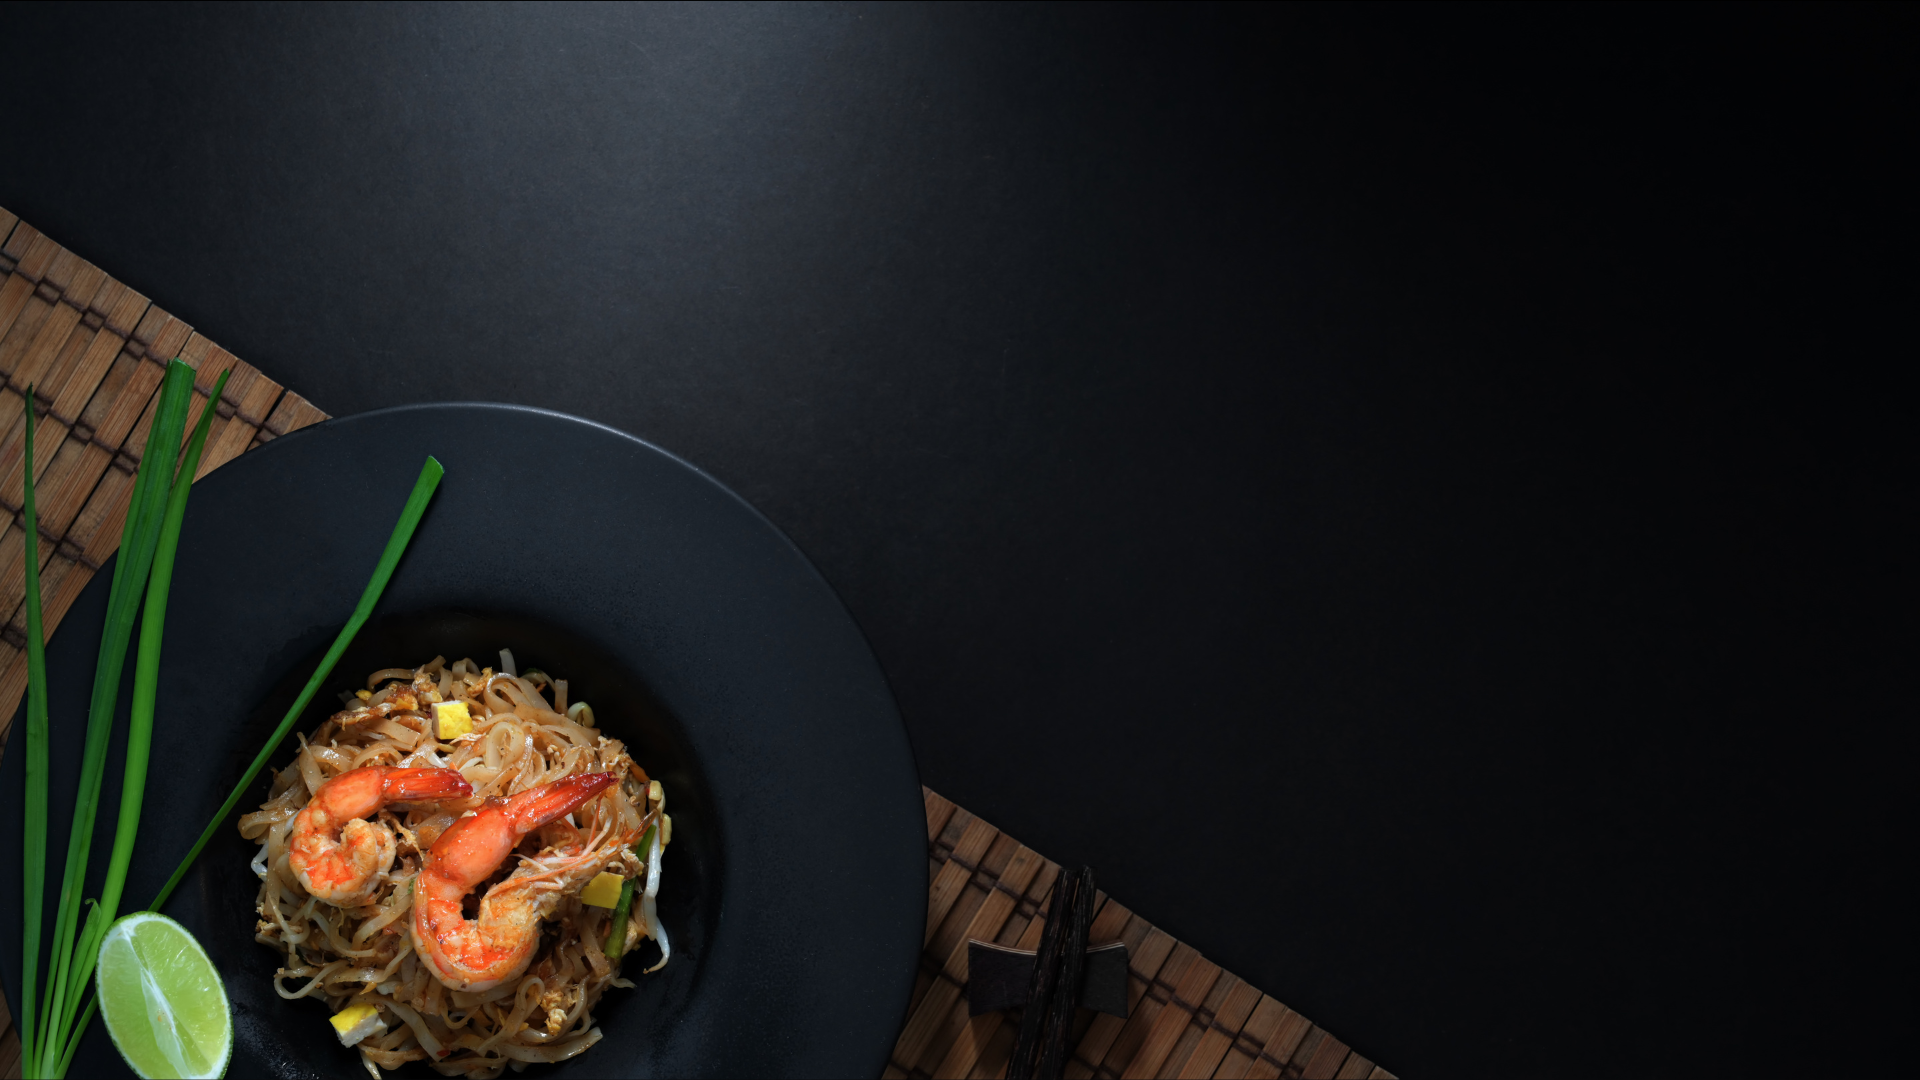
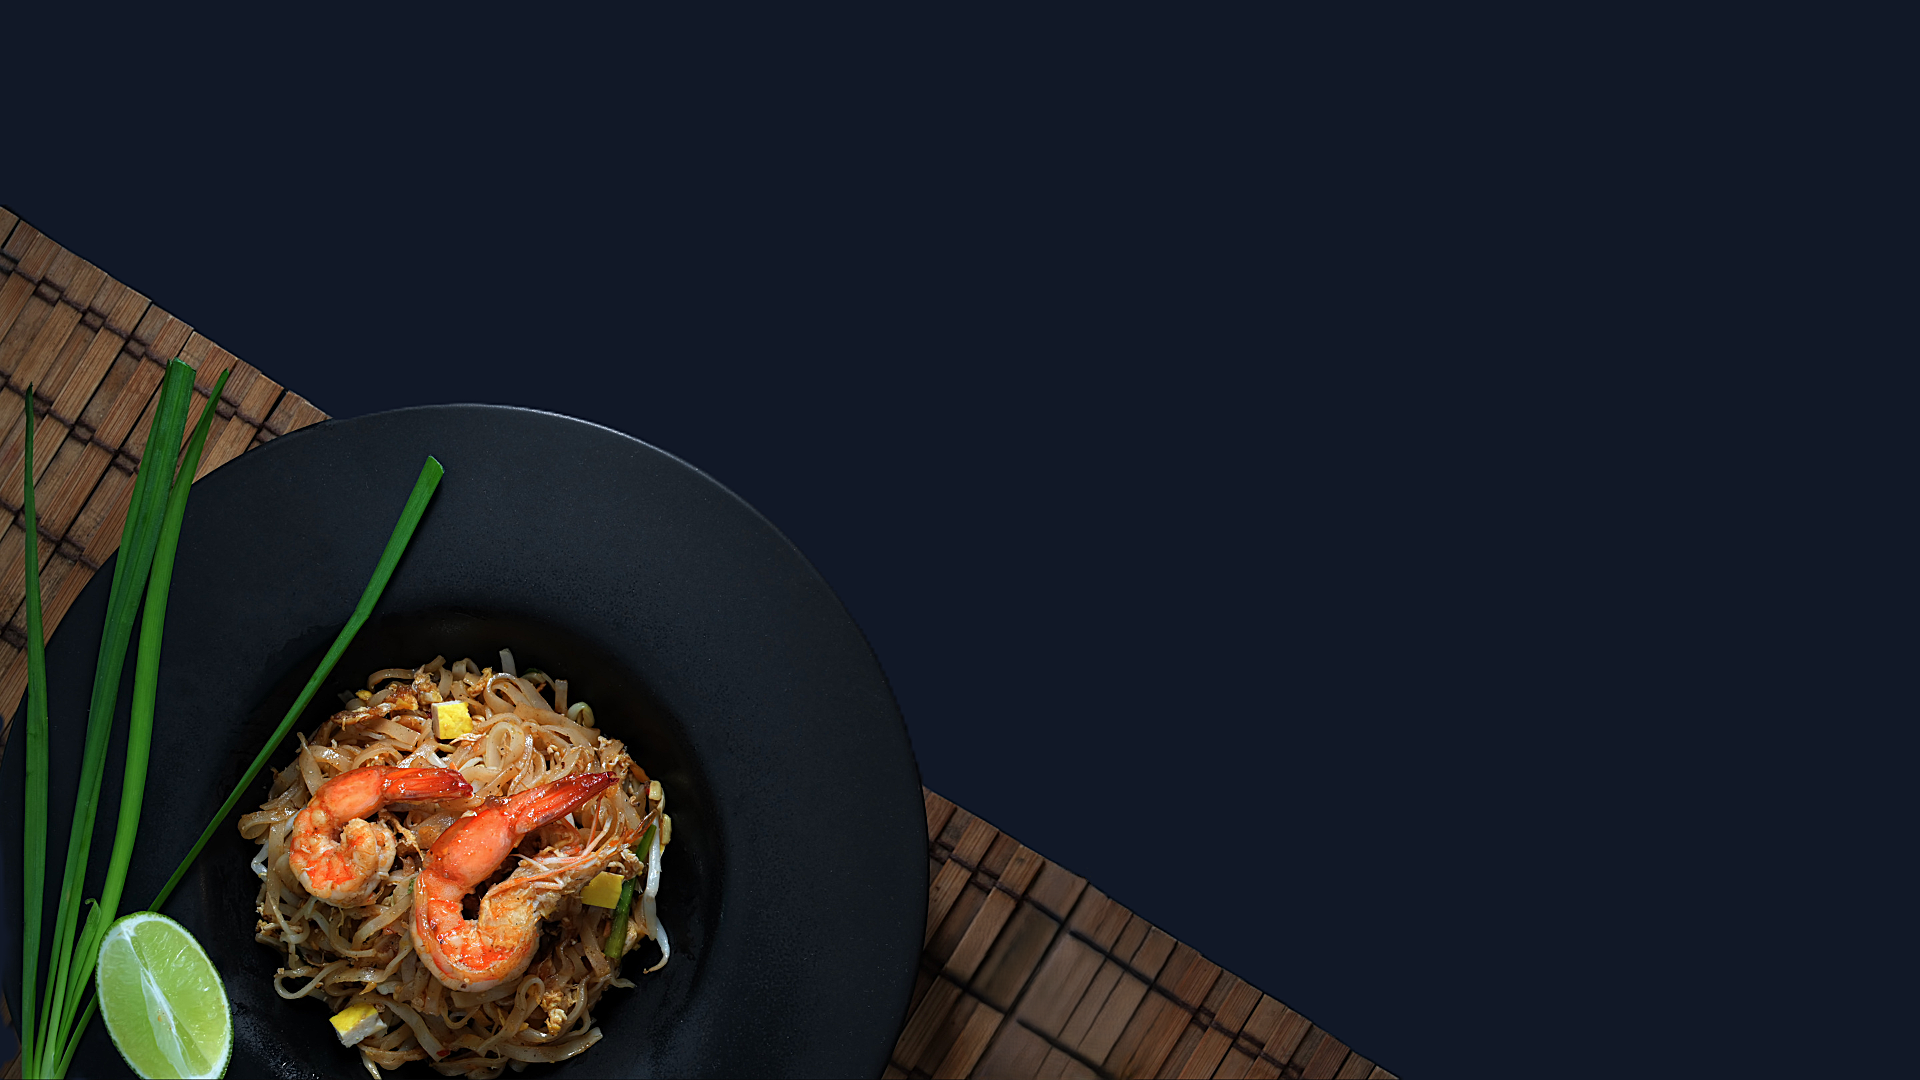
bg changed & form updated: 5-10-2024

diff --git a/src/components/RecommendationsForm.tsx b/src/components/RecommendationsForm.tsx
@@ -24,7 +24,7 @@ interface FormData {
 const RecipeRecommendationForm: React.FC = () => {
   const [formData, setFormData] = useState<FormData | null>(null);
   const [category, setCategory] = useState("");
-  const [dietaryPreference, setDietaryPreference] = useState("");
+  const [dietaryPreference, setDietaryPreference] = useState<string[]>([]); 
   const [ingredients, setIngredients] = useState<string[]>([]);
   const [calories, setCalories] = useState(0);
   const [time, setTime] = useState(0);
@@ -58,7 +58,7 @@ const RecipeRecommendationForm: React.FC = () => {
   useEffect(() => {
     if (category && formData) {
       setAvailableDietaryPreferences(formData.dietary_preferences[category] || []);
-      setDietaryPreference("");
+      setDietaryPreference([]);
       setIngredients([]);
       if (formData.calorie_ranges && formData.calorie_ranges[category]) {
         setCalorieRange(formData.calorie_ranges[category]);
@@ -78,17 +78,18 @@ const RecipeRecommendationForm: React.FC = () => {
   }, [category, formData]);
 
   useEffect(() => {
-    if (category && dietaryPreference && formData && formData.ingredients) {
-      setAvailableIngredients(formData.ingredients[category]?.[dietaryPreference] || []);
-      setIngredients([]);
+    if (category && dietaryPreference.length > 0 && formData && formData.ingredients) {
+      const mergedIngredients = dietaryPreference.flatMap(
+        (preference) => formData.ingredients[category]?.[preference] || []
+      );
+      
+      // A Set to ensure unique values.
+      const uniqueIngredients = [...new Set(mergedIngredients)];
+      
+      setAvailableIngredients(uniqueIngredients);
+      setIngredients([]); 
     }
-  }, [category, dietaryPreference, formData]);
-
-  const handleIngredientChange = (ingredient: string) => {
-    setIngredients((prev) =>
-      prev.includes(ingredient) ? prev.filter((i) => i !== ingredient) : [...prev, ingredient]
-    );
-  };
+  }, [category, dietaryPreference, formData]);   
 
   const handleSubmit = (e: React.FormEvent) => {
     e.preventDefault();
@@ -156,18 +157,19 @@ const RecipeRecommendationForm: React.FC = () => {
 
         <div>
           <label htmlFor="dietaryPreference" className="block text-sm text-gray-300">
-            Dietary Preference
+            Dietary Preferences
           </label>
           <Select
             id="dietaryPreference"
             value={availableDietaryPreferences
-              .map((pref) => ({ value: pref, label: pref }))
-              .find((option) => option.value === dietaryPreference)} 
-            onChange={(option) => setDietaryPreference(option?.value || "")}
+              .filter((pref) => dietaryPreference.includes(pref))
+              .map((pref) => ({ value: pref, label: pref }))}  // Map selected options
+            onChange={(options) => setDietaryPreference(options ? options.map((option) => option.value) : [])}
             options={availableDietaryPreferences.map((pref) => ({
               value: pref,
               label: pref,
             }))}
+            isMulti // Enables multiple selection.
             isDisabled={!category} 
             className="mt-2 block w-full"
             styles={{
@@ -180,9 +182,22 @@ const RecipeRecommendationForm: React.FC = () => {
                   borderColor: "#4B5563", 
                 },
               }),
-              singleValue: (provided) => ({
+              multiValue: (provided) => ({
+                ...provided,
+                backgroundColor: "#374151",
+                color: "#FFFFFF",
+              }),
+              multiValueLabel: (provided) => ({
                 ...provided,
                 color: "#FFFFFF", 
+              }),
+              multiValueRemove: (provided) => ({
+                ...provided,
+                color: "#FFFFFF",
+                ":hover": {
+                  backgroundColor: "#FF5A5F", 
+                  color: "#FFFFFF",
+                },
               }),
               menu: (provided) => ({
                 ...provided,
@@ -195,41 +210,86 @@ const RecipeRecommendationForm: React.FC = () => {
                 "&:hover": {
                   backgroundColor: "#374151", 
                 },
-                color: "#FFFFFF",
+                color: "#FFFFFF", 
               }),
             }}
           />
         </div>
 
         <div>
-          <label className="block text-sm text-gray-300">Ingredients</label>
-          <div className="mt-2 space-y-4"> 
-            {availableIngredients.map((ingredient) => (
-              <label key={ingredient} className="inline-flex items-center">
-                <input
-                  type="checkbox"
-                  checked={ingredients.includes(ingredient)}
-                  onChange={() => handleIngredientChange(ingredient)}
-                  className="form-checkbox h-4 w-4 text-indigo-400 bg-gray-800 rounded"
-                />
-                <span className="ml-1 mr-4 text-gray-300">{ingredient}</span>
-              </label>
-            ))}
-          </div>
+          <label htmlFor="ingredients" className="block text-sm text-gray-300">
+            Ingredients
+          </label>
+          <Select
+            id="ingredients"
+            value={availableIngredients
+              .filter((ingredient) => ingredients.includes(ingredient))
+              .map((ingredient) => ({ value: ingredient, label: ingredient }))} 
+            onChange={(options) => setIngredients(options ? options.map((option) => option.value) : [])} 
+            options={availableIngredients.map((ingredient) => ({
+              value: ingredient,
+              label: ingredient,
+            }))}
+            isMulti
+            isDisabled={!category} 
+            className="mt-2 block w-full"
+            styles={{
+              control: (provided) => ({
+                ...provided,
+                backgroundColor: "#1F2937", 
+                color: "#FFFFFF", 
+                borderColor: "#6B7280", 
+                "&:hover": {
+                  borderColor: "#4B5563", 
+                },
+              }),
+              multiValue: (provided) => ({
+                ...provided,
+                backgroundColor: "#374151", 
+                color: "#FFFFFF",
+              }),
+              multiValueLabel: (provided) => ({
+                ...provided,
+                color: "#FFFFFF",
+              }),
+              multiValueRemove: (provided) => ({
+                ...provided,
+                color: "#FFFFFF", 
+                ":hover": {
+                  backgroundColor: "#FF5A5F", 
+                  color: "#FFFFFF",
+                },
+              }),
+              menu: (provided) => ({
+                ...provided,
+                backgroundColor: "#1F2937", 
+                color: "#FFFFFF", 
+              }),
+              option: (provided, state) => ({
+                ...provided,
+                backgroundColor: state.isSelected ? "#374151" : "#1F2937", 
+                "&:hover": {
+                  backgroundColor: "#374151", 
+                },
+                color: "#FFFFFF", 
+              }),
+            }}
+            maxMenuHeight={150} 
+          />
         </div>
 
         <div>
           <label htmlFor="calories" className="block text-sm text-gray-300">
-            Calories: {calories}
+            Calories ({calories})
           </label>
           <input
-            type="range"
             id="calories"
+            type="range"
             min={calorieRange.min}
             max={calorieRange.max}
             value={calories}
-            onChange={(e) => setCalories(Number(e.target.value))}
-            className="mt-2 w-full h-2 bg-gray-600 rounded-lg focus:outline-none"
+            onChange={(e) => setCalories(parseInt(e.target.value, 10))}
+            className="mt-2 w-full"
           />
         </div>
 

diff --git a/src/components/HeroSection.tsx b/src/components/HeroSection.tsx
@@ -15,8 +15,8 @@ function HeroSection() {
             }}
         >
             <div className="absolute inset-0 z-0">
-                <div className="absolute top-0 left-0 right-0 h-32 bg-gradient-to-b from-black to-transparent"></div>
-                <div className="absolute bottom-0 left-0 right-0 h-32 bg-gradient-to-t from-black to-transparent"></div>
+                <div className="absolute top-0 left-0 right-0 h-4 bg-gradient-to-b from-black to-transparent"></div>
+                <div className="absolute bottom-0 left-0 right-0 h-6 bg-gradient-to-t from-black to-transparent"></div>
             </div>
             {/* <Spotlight
                 className="-top-40 left-0 md:left-60 md:-top-20"
